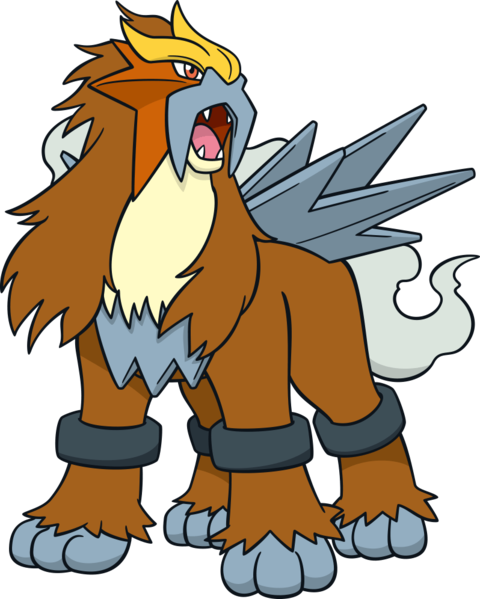
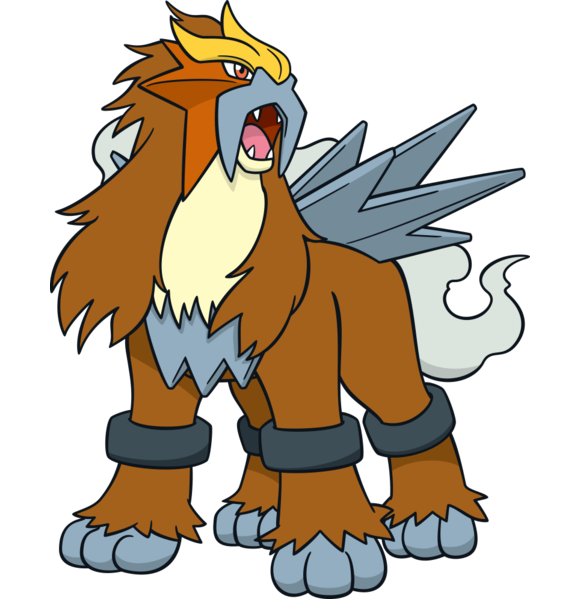
Add transparent padding to entei image

diff --git a/src/styles/global.css b/src/styles/global.css
@@ -97,12 +97,13 @@ h5 {
 }
 /* Hero styling */
 .hero img {
+  image-rendering: optimizeQuality;
   mask-image: linear-gradient(
     to bottom,
     var(--hearth-brown-3) 80%,
     transparent 100%
   );
-  filter: drop-shadow(2px 4px 6px var(--hearth-brown-3));
+  filter: drop-shadow(0.25rem 0.5rem 6px var(--hearth-brown-3));
 }
 .hearth-text-outline {
   -webkit-text-stroke: 0.25px var(--hearth-gray-2);
